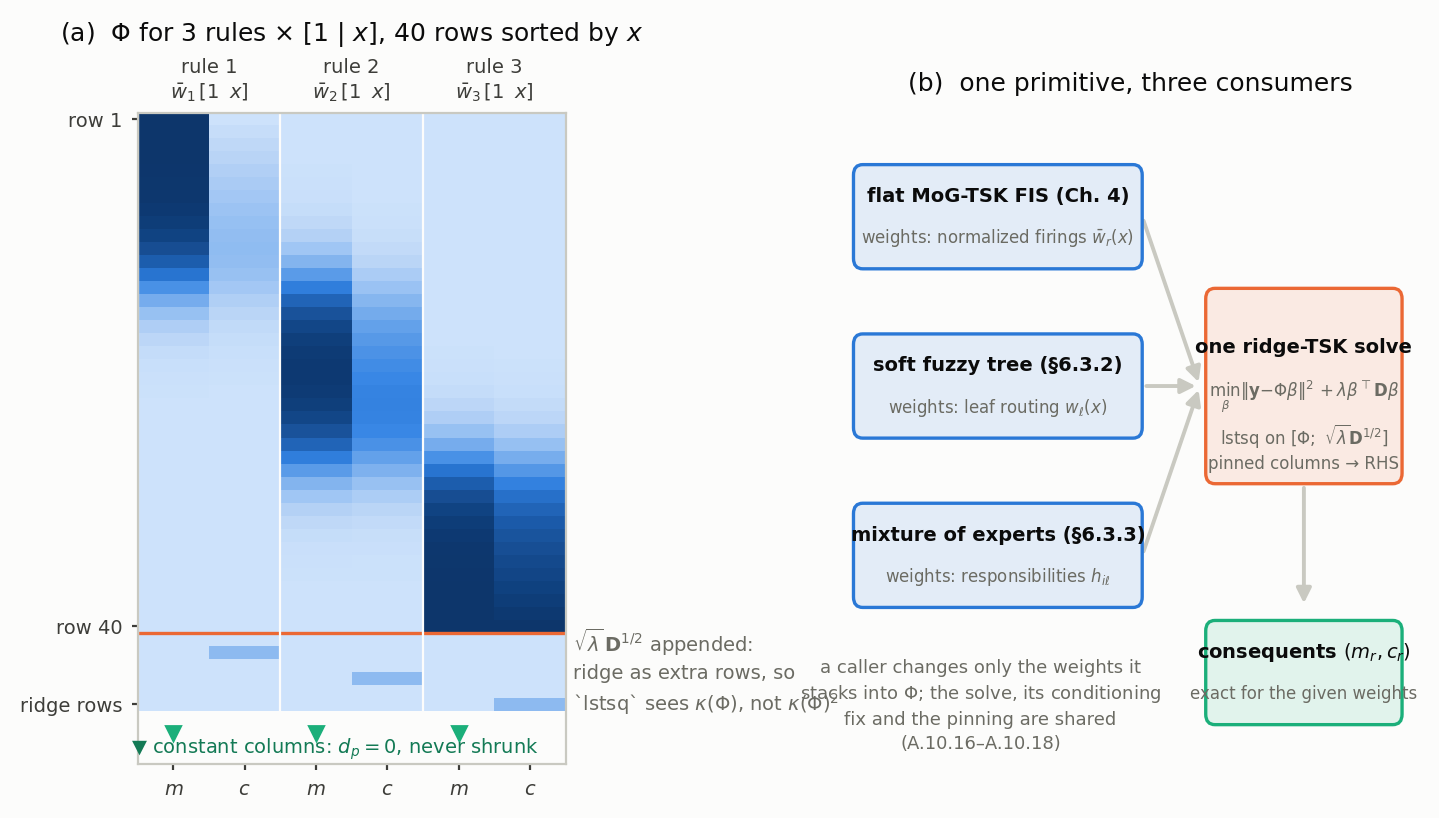
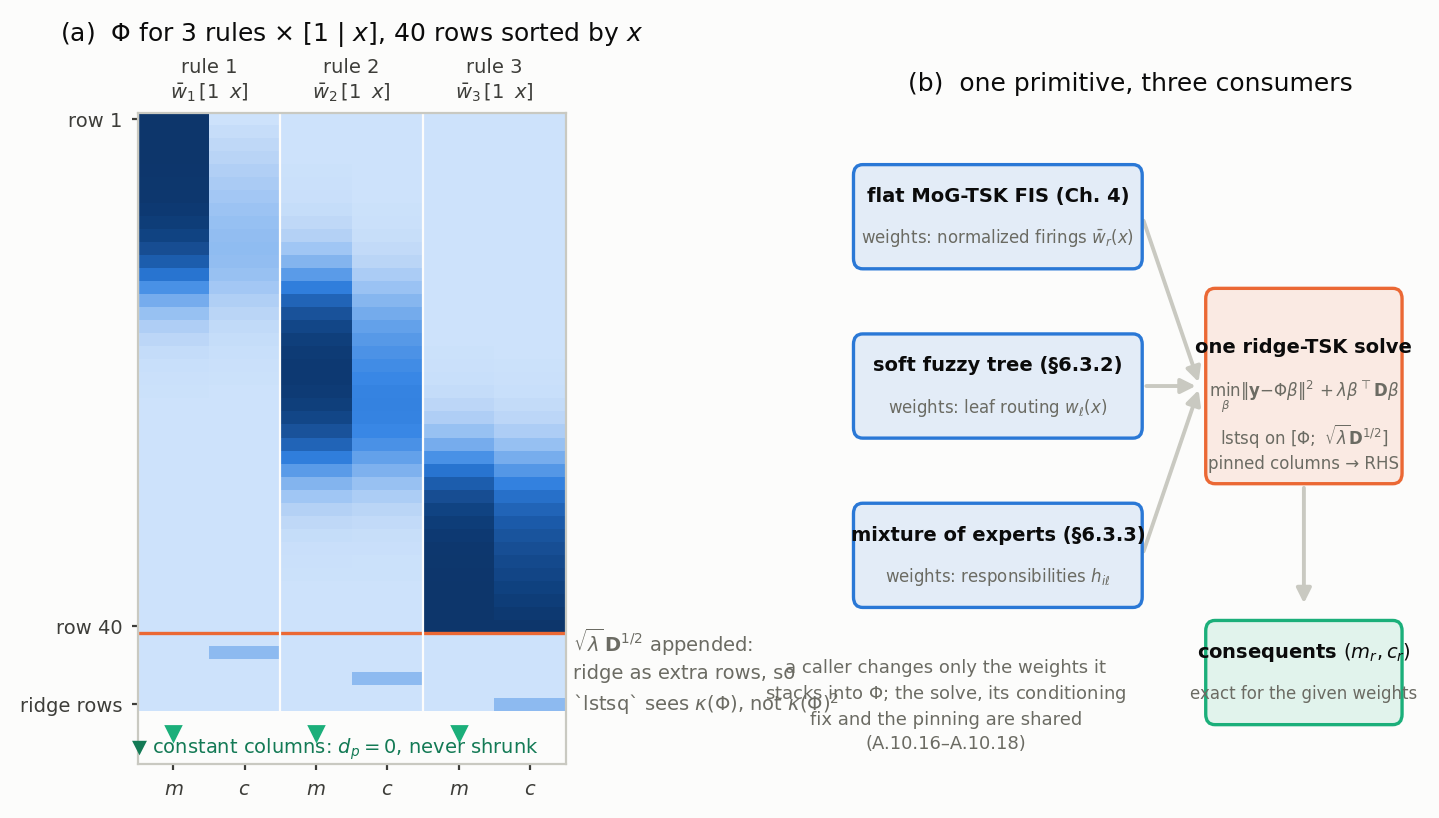
figures: nudge two Chapter 6 annotations clear of their panels
Claude-Session: https://claude.ai/code/session_01XEctbWE37UiZB7f3GgKZYM

Changed region(s): [[0.5198, 0.7946, 0.795, 0.9169]]

diff --git a/reproduce/figures/fig_06_ridge_solver.py b/reproduce/figures/fig_06_ridge_solver.py
@@ -179,7 +179,7 @@ def build():
         body_size=F.FS_SMALL - 1,
     )
     pb.text(
-        24,
+        18,
         9,
         "a caller changes only the weights it\n"
         "stacks into $\Phi$; the solve, its conditioning\n"

diff --git a/reproduce/figures/fig_06_ruspini_export.py b/reproduce/figures/fig_06_ruspini_export.py
@@ -130,7 +130,7 @@ def build():
         ylabel="$\\hat y(x) = \\sum_i \\mu_i(x)\\, m_i$",
     )
     pc.set_xlim(0, 1)
-    F.legend(pc, loc="upper left")
+    F.legend(pc, loc="lower left")
     pc.text(
         0.98,
         0.04,
